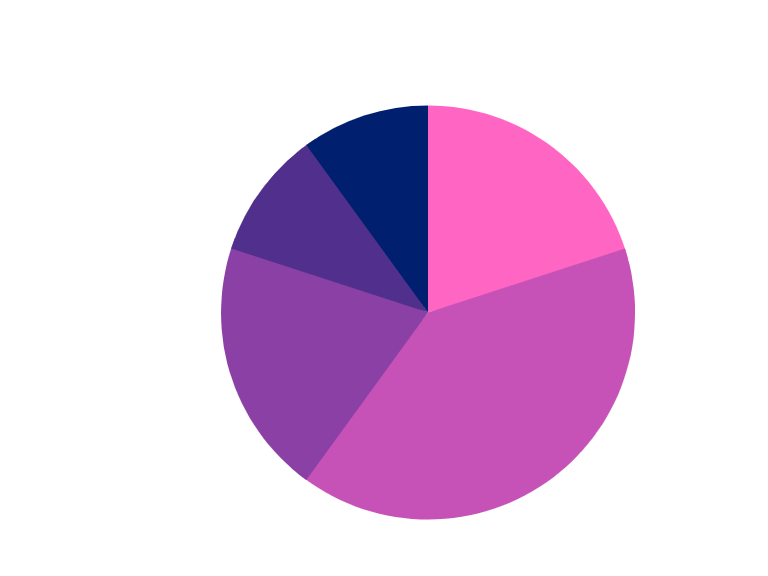
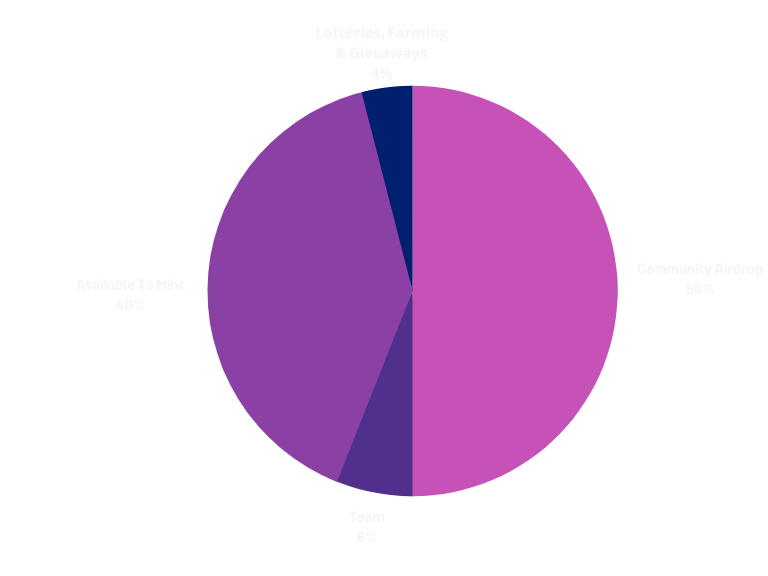
Changed from 25k to 6666 nfts

Changed region(s): [[0.25, 0.125, 0.8438, 0.9062], [0.3125, 0.7188, 0.3438, 0.75]]

diff --git a/src/components/Distribution.vue b/src/components/Distribution.vue
@@ -6,15 +6,14 @@
       </v-row>
       <v-row class="mt-10" style="text-align: justify;">
         <p>
-          There will be a maximum of <b class="blueColor">25000 unique Bored Davids</b>, minted proportionally across multiple blockchains.<br/>
+          There will be a maximum of <b class="blueColor">6666 unique Bored Davids</b>, minted proportionally across multiple blockchains.<br/>
           We will reserve the following percentages:<br/>
         </p>
           <ul style="text-align: start;">
-            <li><b class="blueColor">10000 COMMON NFTs</b> airdropped to the community;</li>
-            <li><b class="blueColor">5000 COMMON NFTs</b> reserved for Pool Together, Farming and Giveaways;</li>
-            <li><b class="blueColor">2500 COMMON NFTs</b> reserved for sale;</li>
-            <li><b class="blueColor">2500 COMMON NFTs</b> reserved for the team;</li>
-            <li><b class="blueColor">5000 RARE NFTs</b> reserved for sale.</li>
+            <li><b class="blueColor">3100 COMMON NFTs</b> airdropped to the community;</li>
+            <li><b class="blueColor">3000 COMMON / RARE NFTs</b> reserved for sale;</li>
+            <li><b class="blueColor">450 COMMON NFTs</b> reserved for the team;</li>
+            <li><b class="blueColor">116 COMMON NFTs</b> reserved for Pool Together, Farming and Giveaways;</li>
           </ul>
       </v-row>
     </v-col>

diff --git a/src/components/Introduction.vue b/src/components/Introduction.vue
@@ -51,7 +51,7 @@
         </v-avatar>
 
         <p class="mt-5">
-          Want to receive the airdrop? <a href="https://discord.gg/kvbxMfUyQD" target="_blank" class="customLink">Get in touch with us</a>.
+          Want to receive the airdrop? <a href="https://discord.gg/hWH9WFskXc" target="_blank" class="customLink">Get in touch with us</a>.
         </p>
       </v-row>
     </v-col>
